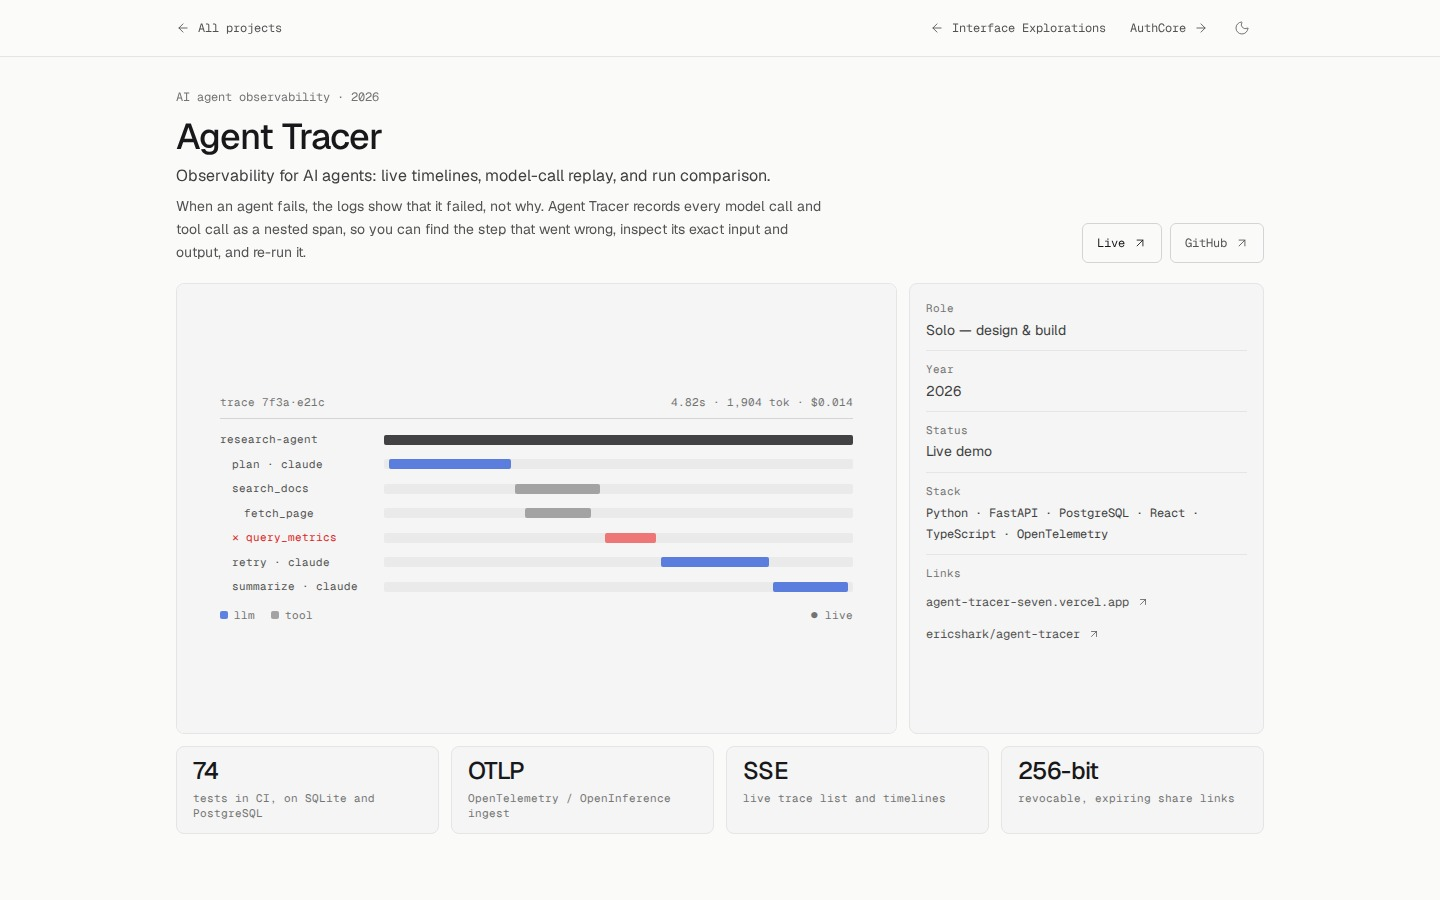
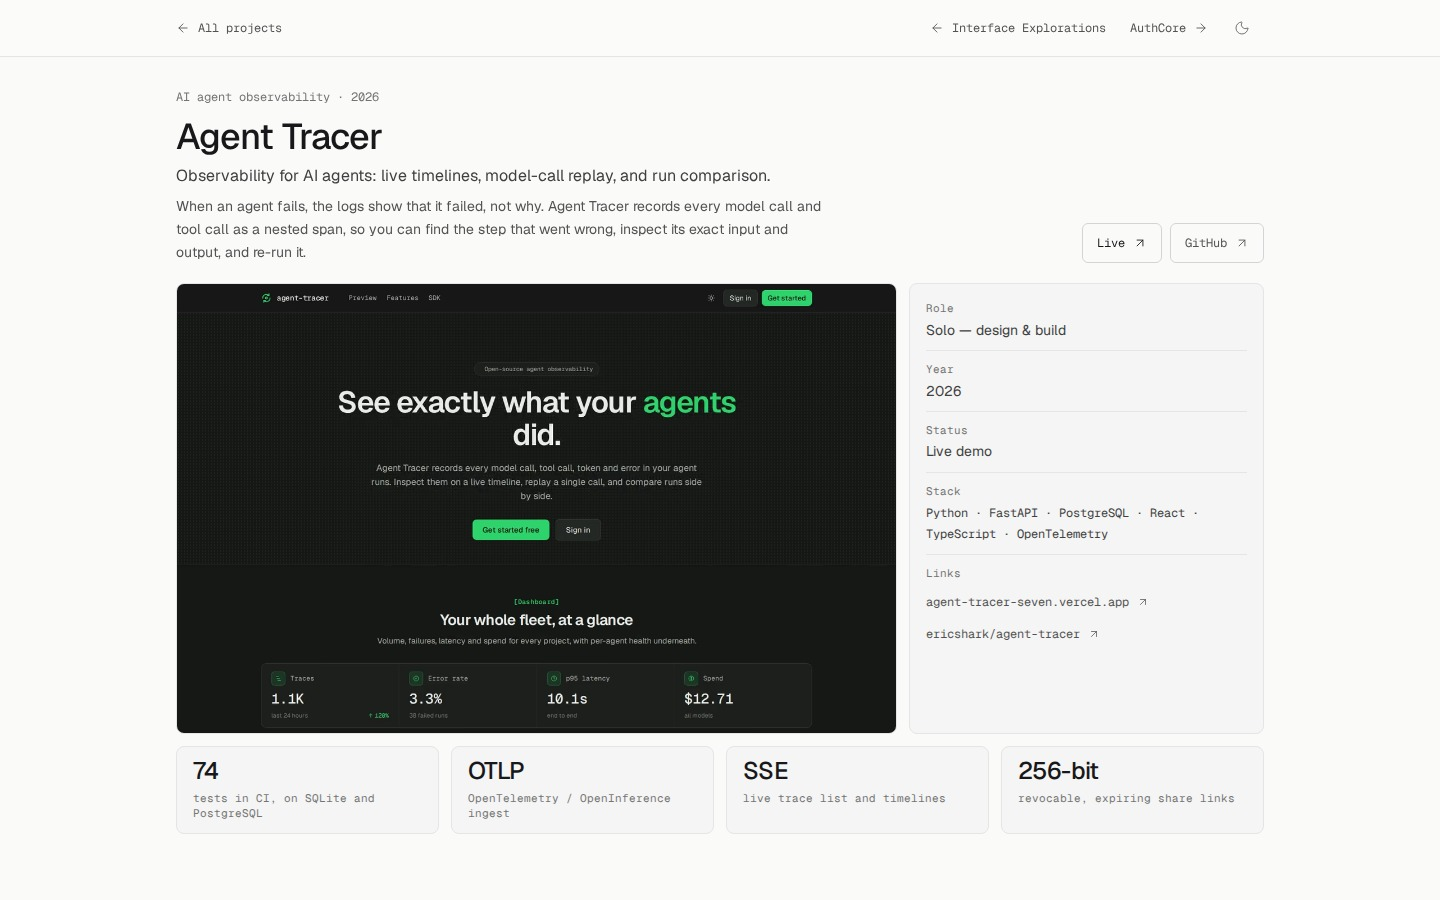
Use live Agent Tracer screenshots for project media and link previews

Changed region(s): [[0.125, 0.3111, 0.625, 0.84]]

diff --git a/src/data/portfolio.ts b/src/data/portfolio.ts
@@ -155,7 +155,11 @@ export const projects: Project[] = [
       "TypeScript",
       "OpenTelemetry",
     ],
-    media: { type: "trace" },
+    media: {
+      type: "image",
+      src: "/projects/agent-tracer",
+      alt: "Agent Tracer landing page: the headline “See exactly what your agents did” above a dashboard of trace volume, error rate, p95 latency, and spend.",
+    },
     live: "https://agent-tracer-seven.vercel.app",
     repo: "https://github.com/ericshark/agent-tracer",
     caseStudy: {
